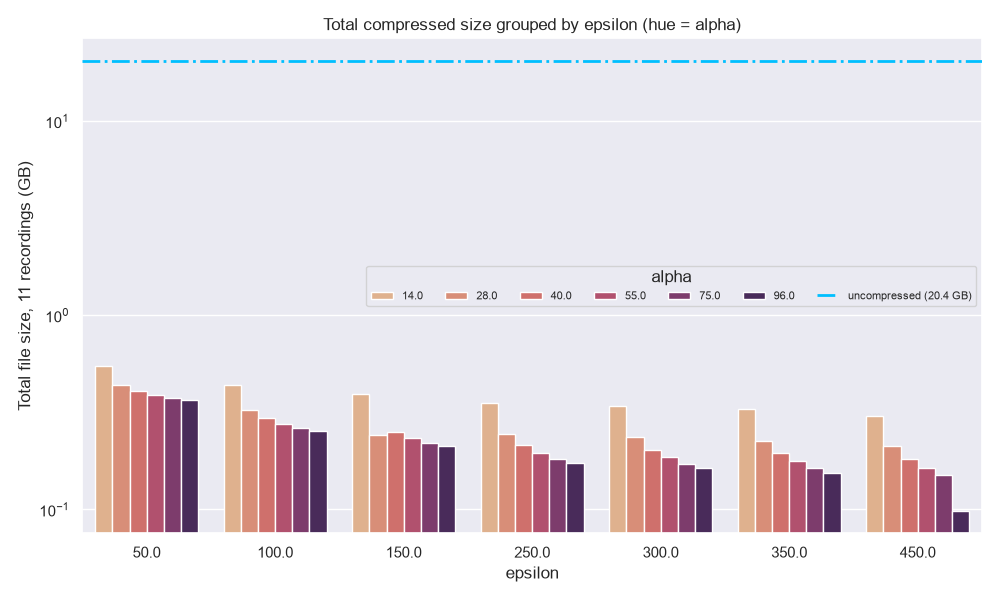
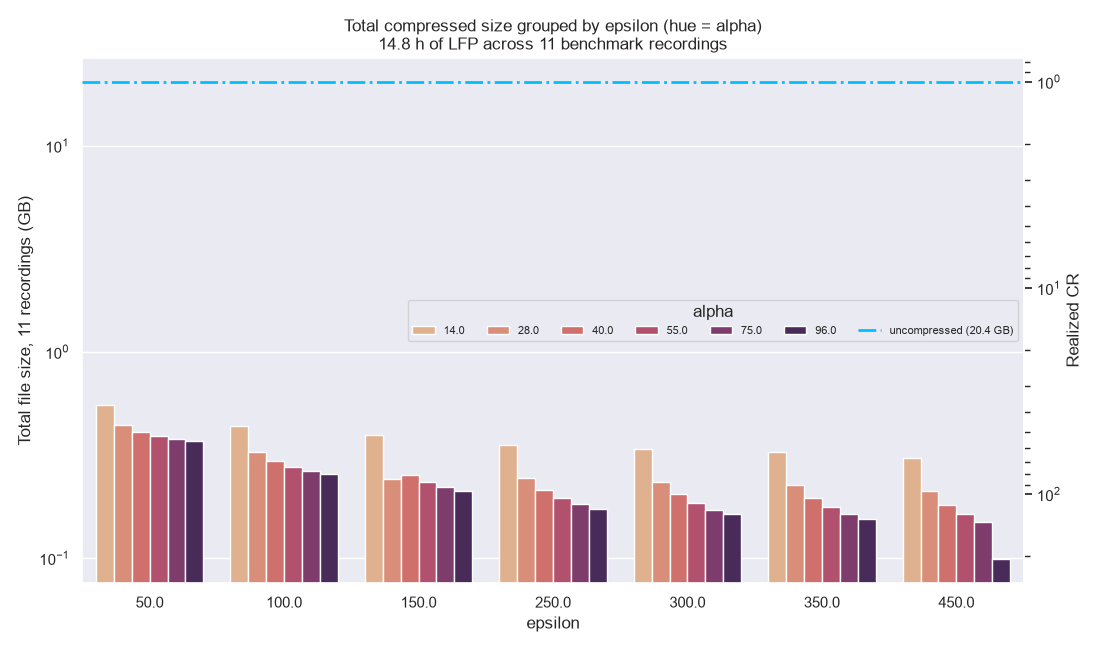
Add linear-scale barplot variant, secondary CR axis, duration label
Both barplots (log and linear) now carry a secondary y-axis converting
size directly to realized CR, and are labelled with the total recorded
duration (14.8 h across the 11 benchmark recordings). The new linear
variant drops the uncompressed reference line (would flatten every bar
at that scale) and keeps bars honestly zero-based, with hand-picked CR
tick values on the secondary axis instead of letting the reciprocal
transform's near-infinite range near zero dictate the ticks.

diff --git a/_site/analyses/2026-06-lfp-compression-svd/compression_tuning.html b/_site/analyses/2026-06-lfp-compression-svd/compression_tuning.html
@@ -275,7 +275,7 @@ pre > code.sourceCode > span > a:first-child::before { text-decoration: underlin
 </section>
 <section id="does-compression-hurt-decoding" class="level2">
 <h2 class="anchored" data-anchor-id="does-compression-hurt-decoding">Does compression hurt decoding?</h2>
-<div id="762db75a" class="cell" data-execution_count="1">
+<div id="4ca9f9b7" class="cell" data-execution_count="1">
 <div class="cell-output cell-output-display" data-execution_count="1">
 <div>
 
@@ -358,7 +358,7 @@ pre > code.sourceCode > span > a:first-child::before { text-decoration: underlin
 <section id="searching-for-an-intermediate-tier" class="level2">
 <h2 class="anchored" data-anchor-id="searching-for-an-intermediate-tier">Searching for an intermediate tier</h2>
 <p>Sweeping <strong>ε alone</strong> (α=28 fixed, ε ∈ 150–450) or <strong>α alone</strong> (ε=150 fixed, α ∈ 28–96) both left total file size across the 11 recordings essentially flat (0.242 GB → ~0.21 GB either way, an ~13% reduction). But their effect on decoding fidelity is <em>not</em> symmetric, and the raw per- recording numbers are easy to misread here: feedback balanced accuracy varies enormously between recordings (SD ≈0.11 at a single grid cell — some recordings decode feedback near chance, others above 0.8), which swamps both parameters’ effects unless it’s controlled for. A paired per-recording test (same 11 recordings, before vs.&nbsp;after moving one parameter) shows they’re not equivalent: moving <strong>α</strong> from 28→96 (ε=150 fixed) drops feedback balanced accuracy in <strong>10/11 recordings</strong> (Wilcoxon p=0.005) — a real, consistent effect. Moving <strong>ε</strong> from 150→450 (α=28 fixed) only drops it in 6/11 (p=0.17) — <strong>not distinguishable from between-recording noise</strong>, and driven almost entirely by two strong-feedback-decoding recordings rather than a general effect. So: α alone reliably costs decoding fidelity without buying compression; ε alone buys no compression either, but its apparent decoding cost mostly isn’t real. Yet at ε=450, moving α from 28→96 — the shipped aggressive tier vs.&nbsp;the same ε at default’s α — <em>nearly halves</em> the file size (0.211 GB → 0.098 GB): the ε/α interaction described above, in action. Real compression only appears when both are pushed together.</p>
-<div id="aa8b82f9" class="cell" data-execution_count="2">
+<div id="ef30ed5b" class="cell" data-execution_count="2">
 <div class="cell-output cell-output-display" data-execution_count="2">
 <div>
 
@@ -445,8 +445,8 @@ pre > code.sourceCode > span > a:first-child::before { text-decoration: underlin
 </section>
 <section id="full-2d-grid" class="level2 page-columns page-full">
 <h2 class="anchored" data-anchor-id="full-2d-grid">Full 2D grid</h2>
-<p>ε ∈ {50, 100, 150, 250, 300, 350, 450} × α ∈ {14, 28, 40, 55, 75, 96} — 42 cells (milder than default through the shipped aggressive point), all 11 recordings, all three decode targets.</p>
-<div id="06004173" class="cell" data-execution_count="3">
+<p>ε ∈ {50, 100, 150, 250, 300, 350, 450} × α ∈ {14, 28, 40, 55, 75, 96} — 42 cells (milder than default through the shipped aggressive point), all three decode targets, across the same 11 benchmark recordings used throughout this page — 14.8 h of LFP in total.</p>
+<div id="555bc1e3" class="cell" data-execution_count="3">
 <div class="cell-output cell-output-display" data-execution_count="3">
 <div>
 
@@ -793,15 +793,21 @@ pre > code.sourceCode > span > a:first-child::before { text-decoration: underlin
 </div>
 <div class="quarto-figure quarto-figure-center">
 <figure class="figure">
-<p><a href="figures/2026-09-01_grid_barplot_size_by_epsilon.png" class="lightbox" data-gallery="quarto-lightbox-gallery-7" title="Total compressed size grouped by epsilon (hue = alpha), with the uncompressed total (20.4 GB, blue dash-dot line) for scale — every tested tier is at least ~40× smaller. The (450,96) bar is visibly shorter than its neighbors, again the interaction."><img src="figures/2026-09-01_grid_barplot_size_by_epsilon.png" class="img-fluid figure-img" alt="Total compressed size grouped by epsilon (hue = alpha), with the uncompressed total (20.4 GB, blue dash-dot line) for scale — every tested tier is at least ~40× smaller. The (450,96) bar is visibly shorter than its neighbors, again the interaction."></a></p>
-<figcaption>Total compressed size grouped by epsilon (hue = alpha), with the uncompressed total (20.4 GB, blue dash-dot line) for scale — every tested tier is at least ~40× smaller. The (450,96) bar is visibly shorter than its neighbors, again the interaction.</figcaption>
+<p><a href="figures/2026-09-01_grid_barplot_size_by_epsilon.png" class="lightbox" data-gallery="quarto-lightbox-gallery-7" title="Total compressed size grouped by epsilon (hue = alpha), log scale, with the uncompressed total (20.4 GB, blue dash-dot line) for scale — every tested tier is at least ~40× smaller — and a secondary axis converting size directly to realized CR. The (450,96) bar is visibly shorter than its neighbors, again the interaction."><img src="figures/2026-09-01_grid_barplot_size_by_epsilon.png" class="img-fluid figure-img" alt="Total compressed size grouped by epsilon (hue = alpha), log scale, with the uncompressed total (20.4 GB, blue dash-dot line) for scale — every tested tier is at least ~40× smaller — and a secondary axis converting size directly to realized CR. The (450,96) bar is visibly shorter than its neighbors, again the interaction."></a></p>
+<figcaption>Total compressed size grouped by epsilon (hue = alpha), log scale, with the uncompressed total (20.4 GB, blue dash-dot line) for scale — every tested tier is at least ~40× smaller — and a secondary axis converting size directly to realized CR. The (450,96) bar is visibly shorter than its neighbors, again the interaction.</figcaption>
+</figure>
+</div>
+<div class="quarto-figure quarto-figure-center">
+<figure class="figure">
+<p><a href="figures/2026-09-01_grid_barplot_size_by_epsilon_linear.png" class="lightbox" data-gallery="quarto-lightbox-gallery-8" title="Same, linear scale (bars stay honestly zero-based; the uncompressed line is dropped here since at 20.4 GB it would flatten every bar to an invisible sliver) — makes the actual size differences between adjacent cells easier to judge than the log version above."><img src="figures/2026-09-01_grid_barplot_size_by_epsilon_linear.png" class="img-fluid figure-img" alt="Same, linear scale (bars stay honestly zero-based; the uncompressed line is dropped here since at 20.4 GB it would flatten every bar to an invisible sliver) — makes the actual size differences between adjacent cells easier to judge than the log version above."></a></p>
+<figcaption>Same, linear scale (bars stay honestly zero-based; the uncompressed line is dropped here since at 20.4 GB it would flatten every bar to an invisible sliver) — makes the actual size differences between adjacent cells easier to judge than the log version above.</figcaption>
 </figure>
 </div>
 <p><strong>Retained fraction</strong> (below) is how much of the uncompressed decode a tier keeps: for wheel, <code>R²(tier) / R²(uncompressed)</code>; for choice/feedback, <code>(balanced_accuracy(tier) - 0.5) / (balanced_accuracy(uncompressed) - 0.5)</code> — chance-corrected, since balanced accuracy’s floor is 0.5, not 0. 1.0 means indistinguishable from uncompressed.</p>
 <div class="page-columns page-full">
 <div class="quarto-figure quarto-figure-center page-columns page-full">
 <figure class="figure page-columns page-full">
-<p class="page-columns page-full"><a href="figures/2026-09-01_grid_pareto.png" class="lightbox page-columns page-full" data-gallery="quarto-lightbox-gallery-8" title="Pareto: realized CR vs.&nbsp;retained decode fraction, one panel per target (marker size = alpha, colour = epsilon). Default (red star) sits on the frontier for wheel and near it for feedback."><img src="figures/2026-09-01_grid_pareto.png" class="img-fluid figure-img column-page" alt="Pareto: realized CR vs.&nbsp;retained decode fraction, one panel per target (marker size = alpha, colour = epsilon). Default (red star) sits on the frontier for wheel and near it for feedback."></a></p>
+<p class="page-columns page-full"><a href="figures/2026-09-01_grid_pareto.png" class="lightbox page-columns page-full" data-gallery="quarto-lightbox-gallery-9" title="Pareto: realized CR vs.&nbsp;retained decode fraction, one panel per target (marker size = alpha, colour = epsilon). Default (red star) sits on the frontier for wheel and near it for feedback."><img src="figures/2026-09-01_grid_pareto.png" class="img-fluid figure-img column-page" alt="Pareto: realized CR vs.&nbsp;retained decode fraction, one panel per target (marker size = alpha, colour = epsilon). Default (red star) sits on the frontier for wheel and near it for feedback."></a></p>
 <figcaption>Pareto: realized CR vs.&nbsp;retained decode fraction, one panel per target (marker size = alpha, colour = epsilon). Default (red star) sits on the frontier for wheel and near it for feedback.</figcaption>
 </figure>
 </div>
@@ -1393,65 +1399,68 @@ pre > code.sourceCode > span > a:first-child::before { text-decoration: underlin
 <span id="cb1-120"><a href="#cb1-120" aria-hidden="true" tabindex="-1"></a><span class="fu">## Full 2D grid</span></span>
 <span id="cb1-121"><a href="#cb1-121" aria-hidden="true" tabindex="-1"></a></span>
 <span id="cb1-122"><a href="#cb1-122" aria-hidden="true" tabindex="-1"></a>ε ∈ {50, 100, 150, 250, 300, 350, 450} × α ∈ {14, 28, 40, 55, 75, 96} — 42 cells (milder than</span>
-<span id="cb1-123"><a href="#cb1-123" aria-hidden="true" tabindex="-1"></a>default through the shipped aggressive point), all 11 recordings, all three decode targets.</span>
-<span id="cb1-124"><a href="#cb1-124" aria-hidden="true" tabindex="-1"></a></span>
-<span id="cb1-127"><a href="#cb1-127" aria-hidden="true" tabindex="-1"></a><span class="in">```{python}</span></span>
-<span id="cb1-128"><a href="#cb1-128" aria-hidden="true" tabindex="-1"></a><span class="co">#| echo: false</span></span>
-<span id="cb1-129"><a href="#cb1-129" aria-hidden="true" tabindex="-1"></a>g <span class="op">=</span> pd.read_csv(<span class="st">"2026-09-01_full_grid_metrics.csv"</span>)</span>
-<span id="cb1-130"><a href="#cb1-130" aria-hidden="true" tabindex="-1"></a>grid <span class="op">=</span> g.dropna(subset<span class="op">=</span>[<span class="st">"epsilon"</span>])</span>
-<span id="cb1-131"><a href="#cb1-131" aria-hidden="true" tabindex="-1"></a>grid.groupby([<span class="st">"epsilon"</span>, <span class="st">"alpha"</span>])[[<span class="st">"r2_wheel"</span>, <span class="st">"balanced_accuracy_choice"</span>,</span>
-<span id="cb1-132"><a href="#cb1-132" aria-hidden="true" tabindex="-1"></a>                                     <span class="st">"balanced_accuracy_feedback"</span>, <span class="st">"cr_realized"</span>]].mean().<span class="bu">round</span>(<span class="dv">3</span>)</span>
-<span id="cb1-133"><a href="#cb1-133" aria-hidden="true" tabindex="-1"></a><span class="in">```</span></span>
-<span id="cb1-134"><a href="#cb1-134" aria-hidden="true" tabindex="-1"></a></span>
-<span id="cb1-135"><a href="#cb1-135" aria-hidden="true" tabindex="-1"></a><span class="al">![Mean decode metrics and realized CR over the full (ε, α) grid. Uncompressed is added as a literal (ε=0, α=0) corner cell; the rest of that extra row/column is left blank. Default and aggressive cells are outlined (red / orange).](figures/2026-09-01_grid_heatmaps.png)</span>{.lightbox}</span>
-<span id="cb1-136"><a href="#cb1-136" aria-hidden="true" tabindex="-1"></a></span>
-<span id="cb1-137"><a href="#cb1-137" aria-hidden="true" tabindex="-1"></a>The heatmaps make the asymmetry from the previous section visible directly: wheel and feedback</span>
-<span id="cb1-138"><a href="#cb1-138" aria-hidden="true" tabindex="-1"></a>both shift clearly moving *across* alpha (columns) but barely at all moving *down* epsilon</span>
-<span id="cb1-139"><a href="#cb1-139" aria-hidden="true" tabindex="-1"></a>(rows) — until the (450, 96) corner, which stands out as a clear outlier in the CR panel (217×</span>
-<span id="cb1-140"><a href="#cb1-140" aria-hidden="true" tabindex="-1"></a>vs. 140× and 135× in its immediate neighbors), the interaction in action. The corner cells also</span>
-<span id="cb1-141"><a href="#cb1-141" aria-hidden="true" tabindex="-1"></a>show plainly how close default's decode metrics already sit to uncompressed (0.127 vs. 0.139</span>
-<span id="cb1-142"><a href="#cb1-142" aria-hidden="true" tabindex="-1"></a>wheel R², 0.597 vs. 0.642 feedback), and how far realized CR has to climb from uncompressed's 1×.</span>
-<span id="cb1-143"><a href="#cb1-143" aria-hidden="true" tabindex="-1"></a></span>
-<span id="cb1-144"><a href="#cb1-144" aria-hidden="true" tabindex="-1"></a><span class="al">![Decoding metrics grouped by epsilon (hue = alpha), plotted as each recording's own delta from its default (150,28) cell — this removes the ~0.11 SD between-recording offset that hides the effect in raw values. Uncompressed (blue dash-dot line) is each recording's own delta between its uncompressed and default scores, since it doesn't sit at any (ε, α) x-position.](figures/2026-09-01_grid_boxplots_by_epsilon.png)</span>{.lightbox}</span>
-<span id="cb1-145"><a href="#cb1-145" aria-hidden="true" tabindex="-1"></a></span>
-<span id="cb1-146"><a href="#cb1-146" aria-hidden="true" tabindex="-1"></a><span class="al">![Total compressed size grouped by epsilon (hue = alpha), with the uncompressed total (20.4 GB, blue dash-dot line) for scale — every tested tier is at least ~40× smaller. The (450,96) bar is visibly shorter than its neighbors, again the interaction.](figures/2026-09-01_grid_barplot_size_by_epsilon.png)</span>{.lightbox}</span>
-<span id="cb1-147"><a href="#cb1-147" aria-hidden="true" tabindex="-1"></a></span>
-<span id="cb1-148"><a href="#cb1-148" aria-hidden="true" tabindex="-1"></a>**Retained fraction** (below) is how much of the uncompressed decode a tier keeps: for wheel,</span>
-<span id="cb1-149"><a href="#cb1-149" aria-hidden="true" tabindex="-1"></a><span class="in">`R²(tier) / R²(uncompressed)`</span>; for choice/feedback, `(balanced_accuracy(tier) - 0.5) /</span>
-<span id="cb1-150"><a href="#cb1-150" aria-hidden="true" tabindex="-1"></a>(balanced_accuracy(uncompressed) - 0.5)` — chance-corrected, since balanced accuracy's floor is</span>
-<span id="cb1-151"><a href="#cb1-151" aria-hidden="true" tabindex="-1"></a>0.5, not 0. 1.0 means indistinguishable from uncompressed.</span>
-<span id="cb1-152"><a href="#cb1-152" aria-hidden="true" tabindex="-1"></a></span>
-<span id="cb1-153"><a href="#cb1-153" aria-hidden="true" tabindex="-1"></a>::: {.column-page}</span>
-<span id="cb1-154"><a href="#cb1-154" aria-hidden="true" tabindex="-1"></a><span class="al">![Pareto: realized CR vs. retained decode fraction, one panel per target (marker size = alpha, colour = epsilon). Default (red star) sits on the frontier for wheel and near it for feedback.](figures/2026-09-01_grid_pareto.png)</span>{.lightbox}</span>
-<span id="cb1-155"><a href="#cb1-155" aria-hidden="true" tabindex="-1"></a>:::</span>
-<span id="cb1-156"><a href="#cb1-156" aria-hidden="true" tabindex="-1"></a></span>
-<span id="cb1-157"><a href="#cb1-157" aria-hidden="true" tabindex="-1"></a>**The true Pareto frontier** (cells where no other cell has both higher realized CR and higher</span>
-<span id="cb1-158"><a href="#cb1-158" aria-hidden="true" tabindex="-1"></a>retained feedback) contains 16 of the 42 cells, and default (150, 28) is on it — nothing</span>
-<span id="cb1-159"><a href="#cb1-159" aria-hidden="true" tabindex="-1"></a>dominates it. Stepping along the frontier past default is a real, gradual trade the whole way:</span>
-<span id="cb1-160"><a href="#cb1-160" aria-hidden="true" tabindex="-1"></a>(300, 28) barely improves CR (89× vs. 87×) for a real feedback cost (retained fraction</span>
-<span id="cb1-161"><a href="#cb1-161" aria-hidden="true" tabindex="-1"></a>0.640 vs. 0.688); (350, 28) and (450, 28) are close together and both meaningfully better value</span>
-<span id="cb1-162"><a href="#cb1-162" aria-hidden="true" tabindex="-1"></a>— (450, 28) reaches 100× for retained fraction 0.603, a small further cost over (350, 28)'s</span>
-<span id="cb1-163"><a href="#cb1-163" aria-hidden="true" tabindex="-1"></a>93×/0.605 for real extra compression. Past that, the frontier only continues by also raising α,</span>
-<span id="cb1-164"><a href="#cb1-164" aria-hidden="true" tabindex="-1"></a>which is where the interaction — and the larger feedback cost — kicks in.</span>
-<span id="cb1-165"><a href="#cb1-165" aria-hidden="true" tabindex="-1"></a></span>
-<span id="cb1-166"><a href="#cb1-166" aria-hidden="true" tabindex="-1"></a><span class="fu">## Recommendation</span></span>
-<span id="cb1-167"><a href="#cb1-167" aria-hidden="true" tabindex="-1"></a></span>
-<span id="cb1-168"><a href="#cb1-168" aria-hidden="true" tabindex="-1"></a><span class="ss">- </span>**Keep default (ε=150, α=28)** as the standard cohort-wide tier — it's Pareto-efficient, and</span>
-<span id="cb1-169"><a href="#cb1-169" aria-hidden="true" tabindex="-1"></a>  every tested alternative trades away real feedback fidelity.</span>
-<span id="cb1-170"><a href="#cb1-170" aria-hidden="true" tabindex="-1"></a><span class="ss">- </span>**If more compression is required, use ε=450, α=28** — 100× realized CR (0.211 GB vs.</span>
-<span id="cb1-171"><a href="#cb1-171" aria-hidden="true" tabindex="-1"></a>  default's 0.242 GB across the 11 recordings, both tiny next to uncompressed's 20.4 GB), R²</span>
-<span id="cb1-172"><a href="#cb1-172" aria-hidden="true" tabindex="-1"></a>  0.122 vs. default's 0.127, feedback balanced accuracy 0.585 vs. default's 0.597. That</span>
-<span id="cb1-173"><a href="#cb1-173" aria-hidden="true" tabindex="-1"></a>  feedback gap is not statistically distinguishable from between-recording noise (paired</span>
-<span id="cb1-174"><a href="#cb1-174" aria-hidden="true" tabindex="-1"></a>  Wilcoxon p=0.17) — the best-value, lowest-risk upgrade found on the whole grid.</span>
-<span id="cb1-175"><a href="#cb1-175" aria-hidden="true" tabindex="-1"></a><span class="ss">- </span>**Retire the aggressive tier (ε=450, α=96).** Nothing between ε=450/α=28 and aggressive is</span>
-<span id="cb1-176"><a href="#cb1-176" aria-hidden="true" tabindex="-1"></a>  worth shipping — the frontier only gets there by also raising α, which is where the real,</span>
-<span id="cb1-177"><a href="#cb1-177" aria-hidden="true" tabindex="-1"></a>  significant decoding cost (p=0.005) lives.</span>
-<span id="cb1-178"><a href="#cb1-178" aria-hidden="true" tabindex="-1"></a><span class="ss">- </span>**Worth knowing:** the α=14 row (any ε) gives noticeably *better* feedback retention than</span>
-<span id="cb1-179"><a href="#cb1-179" aria-hidden="true" tabindex="-1"></a>  default (up to 0.90) at a real storage cost (38–70× vs. default's 87×) — an option if a</span>
-<span id="cb1-180"><a href="#cb1-180" aria-hidden="true" tabindex="-1"></a>  future use case needs to beat default's fidelity rather than just approach it.</span>
-<span id="cb1-181"><a href="#cb1-181" aria-hidden="true" tabindex="-1"></a><span class="ss">- </span>**Build command** (per-recording, ≈10–60 s from the existing Cadzow checkpoint, no</span>
-<span id="cb1-182"><a href="#cb1-182" aria-hidden="true" tabindex="-1"></a>  re-download needed): `lfpack.compress_to_h5(cadzow_npy, out_h5, recording=pid, epsilon=450.0,</span>
-<span id="cb1-183"><a href="#cb1-183" aria-hidden="true" tabindex="-1"></a>  alpha=28.0, fs=250.0, ...)`.</span>
+<span id="cb1-123"><a href="#cb1-123" aria-hidden="true" tabindex="-1"></a>default through the shipped aggressive point), all three decode targets, across the same 11</span>
+<span id="cb1-124"><a href="#cb1-124" aria-hidden="true" tabindex="-1"></a>benchmark recordings used throughout this page — 14.8 h of LFP in total.</span>
+<span id="cb1-125"><a href="#cb1-125" aria-hidden="true" tabindex="-1"></a></span>
+<span id="cb1-128"><a href="#cb1-128" aria-hidden="true" tabindex="-1"></a><span class="in">```{python}</span></span>
+<span id="cb1-129"><a href="#cb1-129" aria-hidden="true" tabindex="-1"></a><span class="co">#| echo: false</span></span>
+<span id="cb1-130"><a href="#cb1-130" aria-hidden="true" tabindex="-1"></a>g <span class="op">=</span> pd.read_csv(<span class="st">"2026-09-01_full_grid_metrics.csv"</span>)</span>
+<span id="cb1-131"><a href="#cb1-131" aria-hidden="true" tabindex="-1"></a>grid <span class="op">=</span> g.dropna(subset<span class="op">=</span>[<span class="st">"epsilon"</span>])</span>
+<span id="cb1-132"><a href="#cb1-132" aria-hidden="true" tabindex="-1"></a>grid.groupby([<span class="st">"epsilon"</span>, <span class="st">"alpha"</span>])[[<span class="st">"r2_wheel"</span>, <span class="st">"balanced_accuracy_choice"</span>,</span>
+<span id="cb1-133"><a href="#cb1-133" aria-hidden="true" tabindex="-1"></a>                                     <span class="st">"balanced_accuracy_feedback"</span>, <span class="st">"cr_realized"</span>]].mean().<span class="bu">round</span>(<span class="dv">3</span>)</span>
+<span id="cb1-134"><a href="#cb1-134" aria-hidden="true" tabindex="-1"></a><span class="in">```</span></span>
+<span id="cb1-135"><a href="#cb1-135" aria-hidden="true" tabindex="-1"></a></span>
+<span id="cb1-136"><a href="#cb1-136" aria-hidden="true" tabindex="-1"></a><span class="al">![Mean decode metrics and realized CR over the full (ε, α) grid. Uncompressed is added as a literal (ε=0, α=0) corner cell; the rest of that extra row/column is left blank. Default and aggressive cells are outlined (red / orange).](figures/2026-09-01_grid_heatmaps.png)</span>{.lightbox}</span>
+<span id="cb1-137"><a href="#cb1-137" aria-hidden="true" tabindex="-1"></a></span>
+<span id="cb1-138"><a href="#cb1-138" aria-hidden="true" tabindex="-1"></a>The heatmaps make the asymmetry from the previous section visible directly: wheel and feedback</span>
+<span id="cb1-139"><a href="#cb1-139" aria-hidden="true" tabindex="-1"></a>both shift clearly moving *across* alpha (columns) but barely at all moving *down* epsilon</span>
+<span id="cb1-140"><a href="#cb1-140" aria-hidden="true" tabindex="-1"></a>(rows) — until the (450, 96) corner, which stands out as a clear outlier in the CR panel (217×</span>
+<span id="cb1-141"><a href="#cb1-141" aria-hidden="true" tabindex="-1"></a>vs. 140× and 135× in its immediate neighbors), the interaction in action. The corner cells also</span>
+<span id="cb1-142"><a href="#cb1-142" aria-hidden="true" tabindex="-1"></a>show plainly how close default's decode metrics already sit to uncompressed (0.127 vs. 0.139</span>
+<span id="cb1-143"><a href="#cb1-143" aria-hidden="true" tabindex="-1"></a>wheel R², 0.597 vs. 0.642 feedback), and how far realized CR has to climb from uncompressed's 1×.</span>
+<span id="cb1-144"><a href="#cb1-144" aria-hidden="true" tabindex="-1"></a></span>
+<span id="cb1-145"><a href="#cb1-145" aria-hidden="true" tabindex="-1"></a><span class="al">![Decoding metrics grouped by epsilon (hue = alpha), plotted as each recording's own delta from its default (150,28) cell — this removes the ~0.11 SD between-recording offset that hides the effect in raw values. Uncompressed (blue dash-dot line) is each recording's own delta between its uncompressed and default scores, since it doesn't sit at any (ε, α) x-position.](figures/2026-09-01_grid_boxplots_by_epsilon.png)</span>{.lightbox}</span>
+<span id="cb1-146"><a href="#cb1-146" aria-hidden="true" tabindex="-1"></a></span>
+<span id="cb1-147"><a href="#cb1-147" aria-hidden="true" tabindex="-1"></a><span class="al">![Total compressed size grouped by epsilon (hue = alpha), log scale, with the uncompressed total (20.4 GB, blue dash-dot line) for scale — every tested tier is at least ~40× smaller — and a secondary axis converting size directly to realized CR. The (450,96) bar is visibly shorter than its neighbors, again the interaction.](figures/2026-09-01_grid_barplot_size_by_epsilon.png)</span>{.lightbox}</span>
+<span id="cb1-148"><a href="#cb1-148" aria-hidden="true" tabindex="-1"></a></span>
+<span id="cb1-149"><a href="#cb1-149" aria-hidden="true" tabindex="-1"></a><span class="al">![Same, linear scale (bars stay honestly zero-based; the uncompressed line is dropped here since at 20.4 GB it would flatten every bar to an invisible sliver) — makes the actual size differences between adjacent cells easier to judge than the log version above.](figures/2026-09-01_grid_barplot_size_by_epsilon_linear.png)</span>{.lightbox}</span>
+<span id="cb1-150"><a href="#cb1-150" aria-hidden="true" tabindex="-1"></a></span>
+<span id="cb1-151"><a href="#cb1-151" aria-hidden="true" tabindex="-1"></a>**Retained fraction** (below) is how much of the uncompressed decode a tier keeps: for wheel,</span>
+<span id="cb1-152"><a href="#cb1-152" aria-hidden="true" tabindex="-1"></a><span class="in">`R²(tier) / R²(uncompressed)`</span>; for choice/feedback, `(balanced_accuracy(tier) - 0.5) /</span>
+<span id="cb1-153"><a href="#cb1-153" aria-hidden="true" tabindex="-1"></a>(balanced_accuracy(uncompressed) - 0.5)` — chance-corrected, since balanced accuracy's floor is</span>
+<span id="cb1-154"><a href="#cb1-154" aria-hidden="true" tabindex="-1"></a>0.5, not 0. 1.0 means indistinguishable from uncompressed.</span>
+<span id="cb1-155"><a href="#cb1-155" aria-hidden="true" tabindex="-1"></a></span>
+<span id="cb1-156"><a href="#cb1-156" aria-hidden="true" tabindex="-1"></a>::: {.column-page}</span>
+<span id="cb1-157"><a href="#cb1-157" aria-hidden="true" tabindex="-1"></a><span class="al">![Pareto: realized CR vs. retained decode fraction, one panel per target (marker size = alpha, colour = epsilon). Default (red star) sits on the frontier for wheel and near it for feedback.](figures/2026-09-01_grid_pareto.png)</span>{.lightbox}</span>
+<span id="cb1-158"><a href="#cb1-158" aria-hidden="true" tabindex="-1"></a>:::</span>
+<span id="cb1-159"><a href="#cb1-159" aria-hidden="true" tabindex="-1"></a></span>
+<span id="cb1-160"><a href="#cb1-160" aria-hidden="true" tabindex="-1"></a>**The true Pareto frontier** (cells where no other cell has both higher realized CR and higher</span>
+<span id="cb1-161"><a href="#cb1-161" aria-hidden="true" tabindex="-1"></a>retained feedback) contains 16 of the 42 cells, and default (150, 28) is on it — nothing</span>
+<span id="cb1-162"><a href="#cb1-162" aria-hidden="true" tabindex="-1"></a>dominates it. Stepping along the frontier past default is a real, gradual trade the whole way:</span>
+<span id="cb1-163"><a href="#cb1-163" aria-hidden="true" tabindex="-1"></a>(300, 28) barely improves CR (89× vs. 87×) for a real feedback cost (retained fraction</span>
+<span id="cb1-164"><a href="#cb1-164" aria-hidden="true" tabindex="-1"></a>0.640 vs. 0.688); (350, 28) and (450, 28) are close together and both meaningfully better value</span>
+<span id="cb1-165"><a href="#cb1-165" aria-hidden="true" tabindex="-1"></a>— (450, 28) reaches 100× for retained fraction 0.603, a small further cost over (350, 28)'s</span>
+<span id="cb1-166"><a href="#cb1-166" aria-hidden="true" tabindex="-1"></a>93×/0.605 for real extra compression. Past that, the frontier only continues by also raising α,</span>
+<span id="cb1-167"><a href="#cb1-167" aria-hidden="true" tabindex="-1"></a>which is where the interaction — and the larger feedback cost — kicks in.</span>
+<span id="cb1-168"><a href="#cb1-168" aria-hidden="true" tabindex="-1"></a></span>
+<span id="cb1-169"><a href="#cb1-169" aria-hidden="true" tabindex="-1"></a><span class="fu">## Recommendation</span></span>
+<span id="cb1-170"><a href="#cb1-170" aria-hidden="true" tabindex="-1"></a></span>
+<span id="cb1-171"><a href="#cb1-171" aria-hidden="true" tabindex="-1"></a><span class="ss">- </span>**Keep default (ε=150, α=28)** as the standard cohort-wide tier — it's Pareto-efficient, and</span>
+<span id="cb1-172"><a href="#cb1-172" aria-hidden="true" tabindex="-1"></a>  every tested alternative trades away real feedback fidelity.</span>
+<span id="cb1-173"><a href="#cb1-173" aria-hidden="true" tabindex="-1"></a><span class="ss">- </span>**If more compression is required, use ε=450, α=28** — 100× realized CR (0.211 GB vs.</span>
+<span id="cb1-174"><a href="#cb1-174" aria-hidden="true" tabindex="-1"></a>  default's 0.242 GB across the 11 recordings, both tiny next to uncompressed's 20.4 GB), R²</span>
+<span id="cb1-175"><a href="#cb1-175" aria-hidden="true" tabindex="-1"></a>  0.122 vs. default's 0.127, feedback balanced accuracy 0.585 vs. default's 0.597. That</span>
+<span id="cb1-176"><a href="#cb1-176" aria-hidden="true" tabindex="-1"></a>  feedback gap is not statistically distinguishable from between-recording noise (paired</span>
+<span id="cb1-177"><a href="#cb1-177" aria-hidden="true" tabindex="-1"></a>  Wilcoxon p=0.17) — the best-value, lowest-risk upgrade found on the whole grid.</span>
+<span id="cb1-178"><a href="#cb1-178" aria-hidden="true" tabindex="-1"></a><span class="ss">- </span>**Retire the aggressive tier (ε=450, α=96).** Nothing between ε=450/α=28 and aggressive is</span>
+<span id="cb1-179"><a href="#cb1-179" aria-hidden="true" tabindex="-1"></a>  worth shipping — the frontier only gets there by also raising α, which is where the real,</span>
+<span id="cb1-180"><a href="#cb1-180" aria-hidden="true" tabindex="-1"></a>  significant decoding cost (p=0.005) lives.</span>
+<span id="cb1-181"><a href="#cb1-181" aria-hidden="true" tabindex="-1"></a><span class="ss">- </span>**Worth knowing:** the α=14 row (any ε) gives noticeably *better* feedback retention than</span>
+<span id="cb1-182"><a href="#cb1-182" aria-hidden="true" tabindex="-1"></a>  default (up to 0.90) at a real storage cost (38–70× vs. default's 87×) — an option if a</span>
+<span id="cb1-183"><a href="#cb1-183" aria-hidden="true" tabindex="-1"></a>  future use case needs to beat default's fidelity rather than just approach it.</span>
+<span id="cb1-184"><a href="#cb1-184" aria-hidden="true" tabindex="-1"></a><span class="ss">- </span>**Build command** (per-recording, ≈10–60 s from the existing Cadzow checkpoint, no</span>
+<span id="cb1-185"><a href="#cb1-185" aria-hidden="true" tabindex="-1"></a>  re-download needed): `lfpack.compress_to_h5(cadzow_npy, out_h5, recording=pid, epsilon=450.0,</span>
+<span id="cb1-186"><a href="#cb1-186" aria-hidden="true" tabindex="-1"></a>  alpha=28.0, fs=250.0, ...)`.</span>
 </code></pre></div><button title="Copy to Clipboard" class="code-copy-button" data-in-quarto-modal=""><i class="bi"></i></button></div>
 </div></div></div></div></div>
 </div> <!-- /content -->

diff --git a/_site/index.html b/_site/index.html
@@ -269,14 +269,14 @@ window.Quarto = {
     </div>
 </div>
 <div class="list grid quarto-listing-cols-3">
[2 lines of base64/hex data omitted]
 <a href="./analyses/2026-06-lfp-compression-svd/compression_tuning.html" class="quarto-grid-link">
 <div class="quarto-grid-item card h-100 card-left">
 <div class="card-body post-contents">
 <h5 class="no-anchor card-title listing-title">
 LFP Compression: Decoding-Aware Tuning
 </h5>
-<div class="listing-reading-time card-text text-muted">8 min</div>
+<div class="listing-reading-time card-text text-muted">9 min</div>
 <div class="listing-categories">
 
 <div class="listing-category" onclick="window.quartoListingCategory('ZWxlY3Ryb3BoeXNpb2xvZ3k='); return false;">electrophysiology</div>
